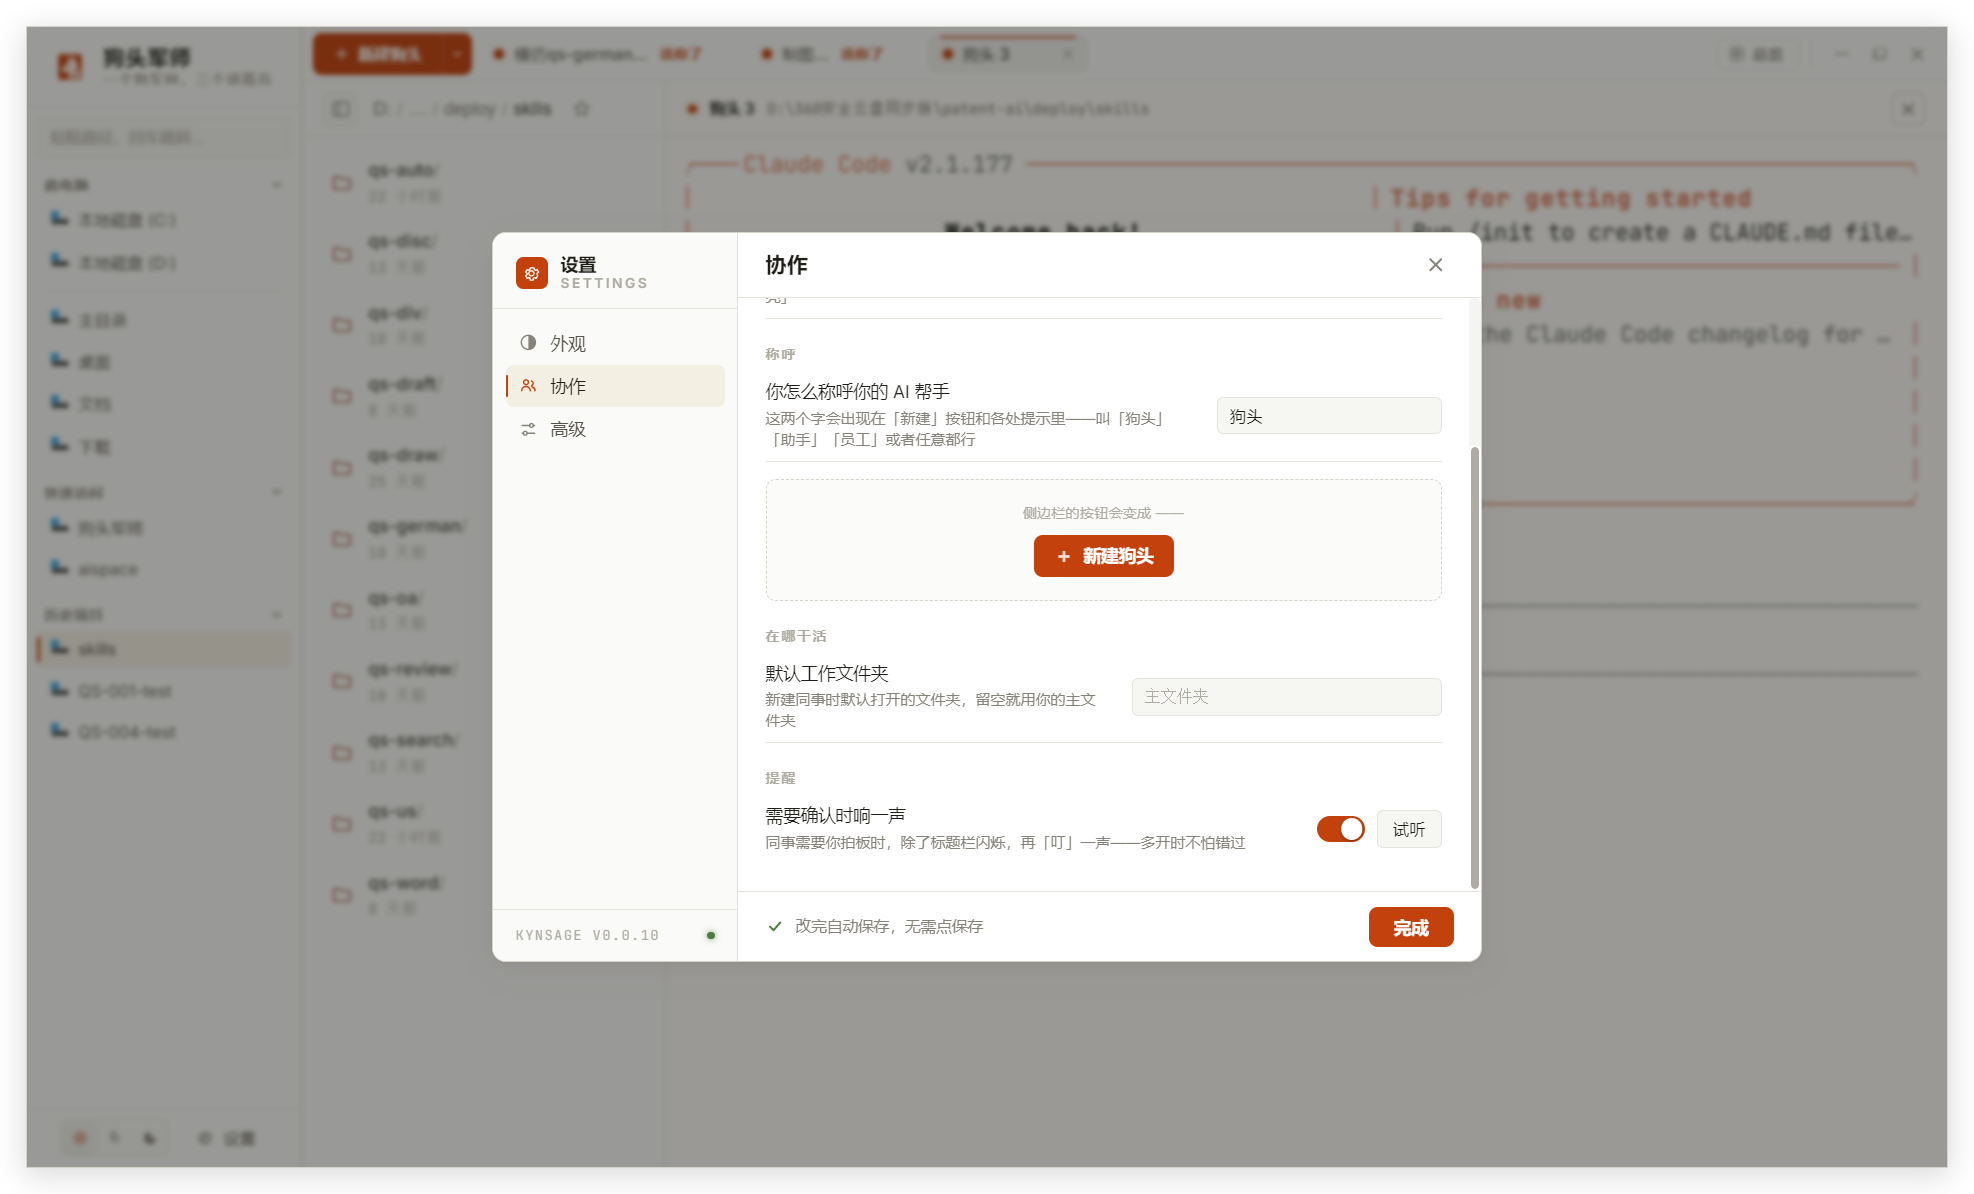
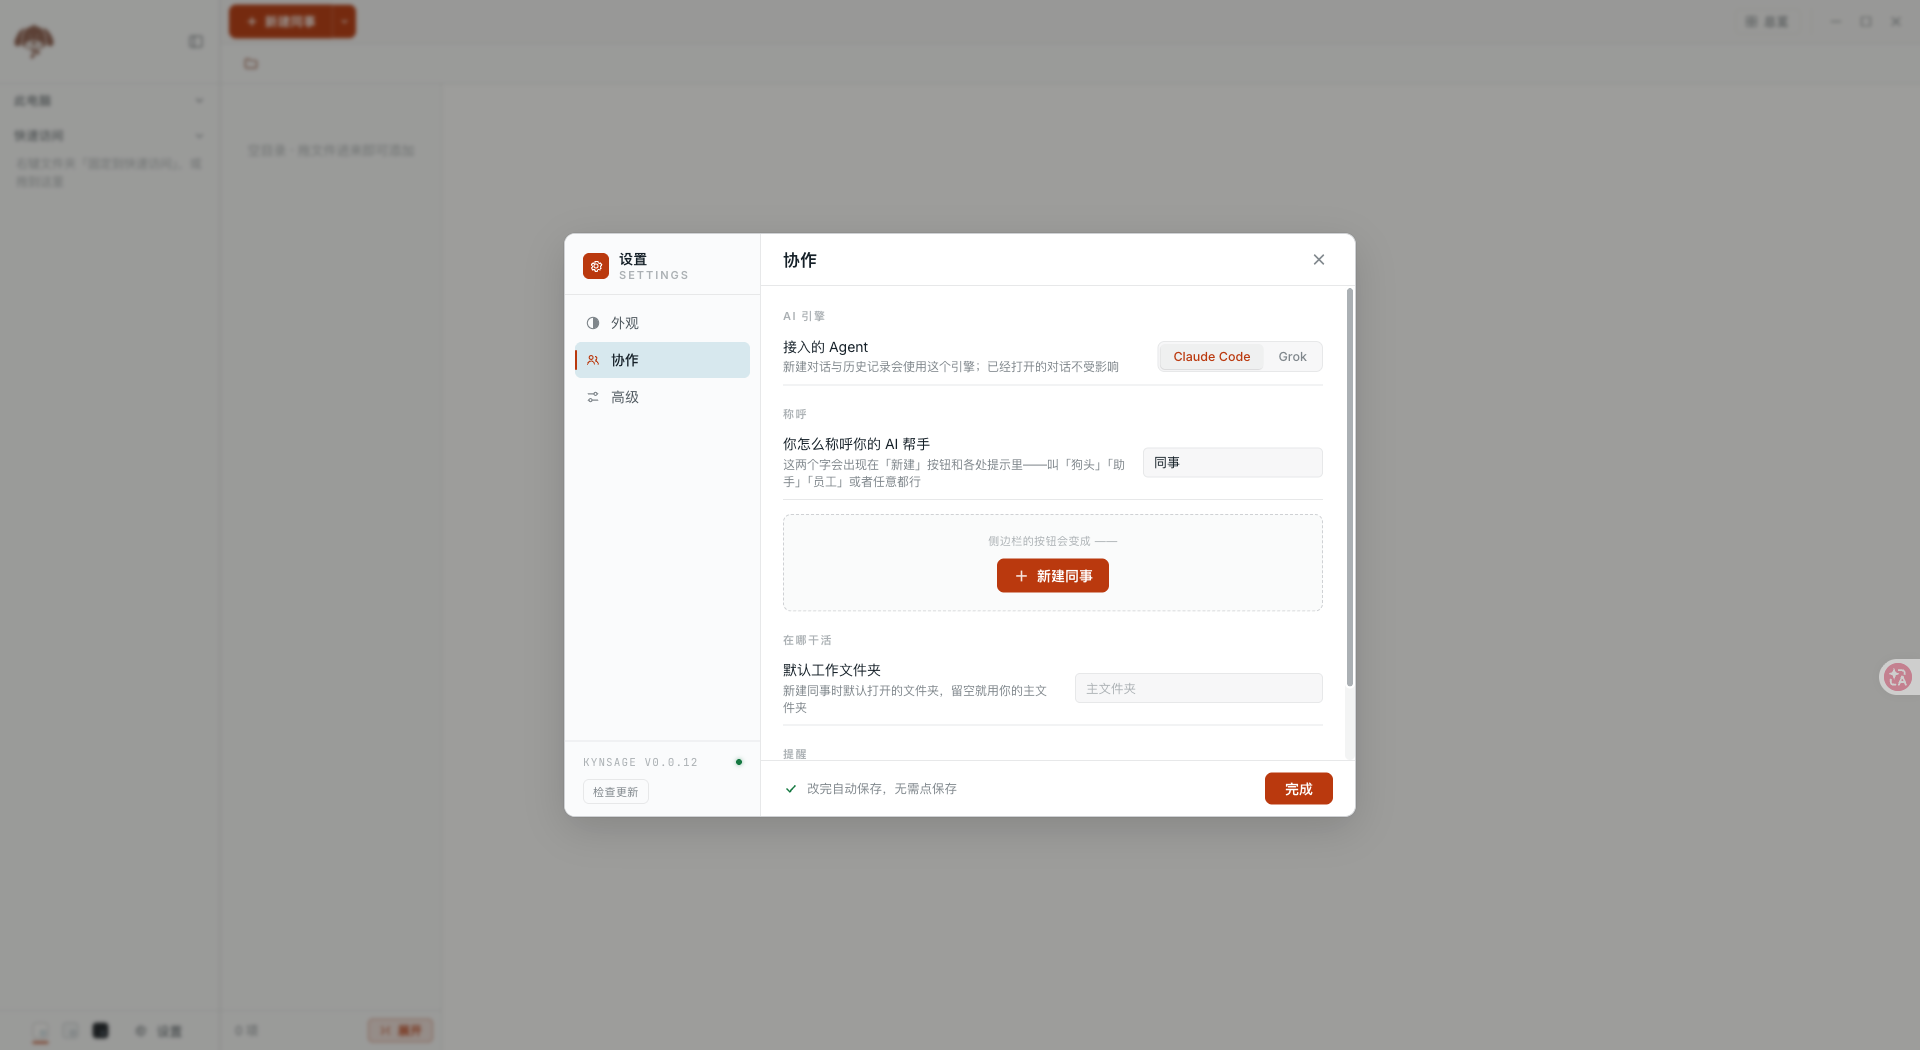
fix(settings): remove obsolete brand controls

diff --git a/apps/renderer/src/stores/settings.ts b/apps/renderer/src/stores/settings.ts
@@ -25,10 +25,6 @@ export interface GeneralPrefs {
 export interface CollabPrefs {
   /** 「新建」按钮里对 AI 帮手的称呼，如「同事」 */
   memberLabel: string;
-  /** 右上角品牌主标题（侧边栏顶部），如「狗头军师」 */
-  brandTitle: string;
-  /** 右上角品牌副标题，如「一个狗军师，三个诸葛亮」 */
-  brandSubtitle: string;
   /** 每次新建同事都单独询问工作文件夹 */
   promptDirPerAgent: boolean;
   /** 同事忙完 / 需要拍板时发通知 */
@@ -59,15 +55,13 @@ const DEFAULTS: Prefs = {
   scrollbackLines: 5000,
   copyPasteMode: 'office',
   memberLabel: '同事',
-  brandTitle: '狗头军师',
-  brandSubtitle: '一个狗军师，三个诸葛亮',
   promptDirPerAgent: false,
   notifyOnDone: true,
   soundOnConfirm: true,
 };
 
 // 旧版默认值 —— 用于一次性迁移到新默认（仅当用户没动过时才覆盖）
-const SETTINGS_VERSION = 5;
+const SETTINGS_VERSION = 6;
 const LEGACY_DEFAULTS = {
   fontFamily: 'Cascadia Code, SF Mono, Consolas, monospace',
   // 历代字号默认：13（最早）→ 14（v2）→ 16（v4）。迁移时把仍是任一旧默认的用户带到新默认。
@@ -77,7 +71,14 @@ const LEGACY_DEFAULTS = {
 function load(): Prefs {
   try {
     const raw = localStorage.getItem('kynsage.settings');
-    const stored = raw ? JSON.parse(raw) : {};
+    const stored = (raw ? JSON.parse(raw) : {}) as Partial<Prefs> & {
+      __v?: number;
+      brandTitle?: unknown;
+      brandSubtitle?: unknown;
+    };
+    // v6：品牌不再允许自定义，加载时同步清掉旧版持久化字段。
+    delete stored.brandTitle;
+    delete stored.brandSubtitle;
     const merged: Prefs & { __v?: number } = { ...DEFAULTS, ...stored };
     if (merged.agentProvider !== 'claude' && merged.agentProvider !== 'grok') {
       merged.agentProvider = DEFAULTS.agentProvider;

diff --git a/apps/renderer/src/features/sidebar/BrandMark.tsx b/apps/renderer/src/features/sidebar/BrandMark.tsx
@@ -1,5 +1,4 @@
 import { useEffect, useRef, type ReactElement } from 'react';
-import { useSettingsStore } from '../../stores/settings';
 import { useLayoutStore } from '../../stores/layout';
 import { useAgentsStore } from '../../stores/agents';
 import { DogHead } from './DogHead';
@@ -52,8 +51,6 @@ const GESTURES: Record<Mood, { keyframes: Keyframe[]; options: KeyframeAnimation
 };
 
 export function BrandMark(): ReactElement {
-  const brandTitle = useSettingsStore((s) => s.brandTitle).trim() || '狗头军师';
-  const brandSubtitle = useSettingsStore((s) => s.brandSubtitle);
   const sessions = useAgentsStore((s) => s.sessions);
   const { sidebarCollapsed, setSidebar } = useLayoutStore();
 
@@ -67,7 +64,7 @@ export function BrandMark(): ReactElement {
     ? '有同事等你拍板'
     : mood === 'watch'
       ? `${running} 位同事在干活`
-      : brandSubtitle || '军师在打盹，没人干活';
+      : '一个狗军师，三个诸葛亮';
 
   const svgRef = useRef<SVGSVGElement>(null);
   const prevMood = useRef<Mood>(mood);
@@ -94,7 +91,7 @@ export function BrandMark(): ReactElement {
         width={40}
         height={40}
         role="img"
-        aria-label={brandTitle}
+        aria-label="狗头军师"
       >
         <title>{hint}</title>
       </DogHead>

diff --git a/apps/renderer/src/features/settings/SettingsPanel.tsx b/apps/renderer/src/features/settings/SettingsPanel.tsx
@@ -248,7 +248,7 @@ function Appearance(): ReactElement {
 
 /* ===================== 协作 ===================== */
 function Collab(): ReactElement {
-  const { agentProvider, memberLabel, brandTitle, brandSubtitle, startDir, soundOnConfirm, patchCollab, patchGeneral } = useSettingsStore();
+  const { agentProvider, memberLabel, startDir, soundOnConfirm, patchCollab, patchGeneral } = useSettingsStore();
   const echo = memberLabel.trim() || '同事';
 
   return (
@@ -264,16 +264,6 @@ function Collab(): ReactElement {
             </button>
           ))}
         </div>
-      </Row>
-
-      <GroupLabel>品牌</GroupLabel>
-      <Row label="主标题" hint="显示在左上角，应用的名字——默认「狗头军师」">
-        <input className="st-tf st-tf--name" value={brandTitle} maxLength={12} spellCheck={false}
-          onChange={(e) => patchCollab({ brandTitle: e.target.value })} />
-      </Row>
-      <Row label="副标题" hint="鼠标停在左上角狗头上时浮出——默认「一个狗军师，三个诸葛亮」">
-        <input className="st-tf" style={{ width: 220 }} value={brandSubtitle} maxLength={24} spellCheck={false}
-          onChange={(e) => patchCollab({ brandSubtitle: e.target.value })} />
       </Row>
 
       <GroupLabel>称呼</GroupLabel>

diff --git a/apps/renderer/src/features/terminal/TerminalArea.tsx b/apps/renderer/src/features/terminal/TerminalArea.tsx
@@ -162,9 +162,8 @@ export function TerminalArea(): ReactElement {
       },
     });
     updateSession(sessionId, { state: 'awaiting-confirm' });
-    const brand = useSettingsStore.getState().brandTitle.trim() || '狗头军师';
-    document.title = `· ${agentName} 需要确认 — ${brand}`;
-    setTimeout(() => { document.title = `${brand} / Kynsage`; }, 3000);
+    document.title = `· ${agentName} 需要确认 — 狗头军师`;
+    setTimeout(() => { document.title = '狗头军师 / Kynsage'; }, 3000);
     // 标题栏闪烁之外再「叮」一声，多开时不容易错过。
     if (useSettingsStore.getState().soundOnConfirm) playConfirmChime();
   };

diff --git a/README.md b/README.md
@@ -99,9 +99,9 @@
 
 <br>
 
-<img src="docs/images/settings.png" alt="设置面板：自定义称呼、按钮实时预览、提示音试听" width="100%" />
+<img src="docs/images/settings.png" alt="协作设置：切换 AI 引擎、自定义同事称呼、指定默认工作文件夹与管理确认提示音" width="100%" />
 
-<p align="center"><sub>▲ <b>设置 · 全部说人话</b>　改完即时生效、自动保存，没有「保存」按钮要你记得按。</sub></p>
+<p align="center"><sub>▲ <b>协作设置 · 只留真正可调的</b>　AI 引擎、同事称呼、工作文件夹与提醒改完即时生效；产品品牌保持固定。</sub></p>
 
 <br>
 
